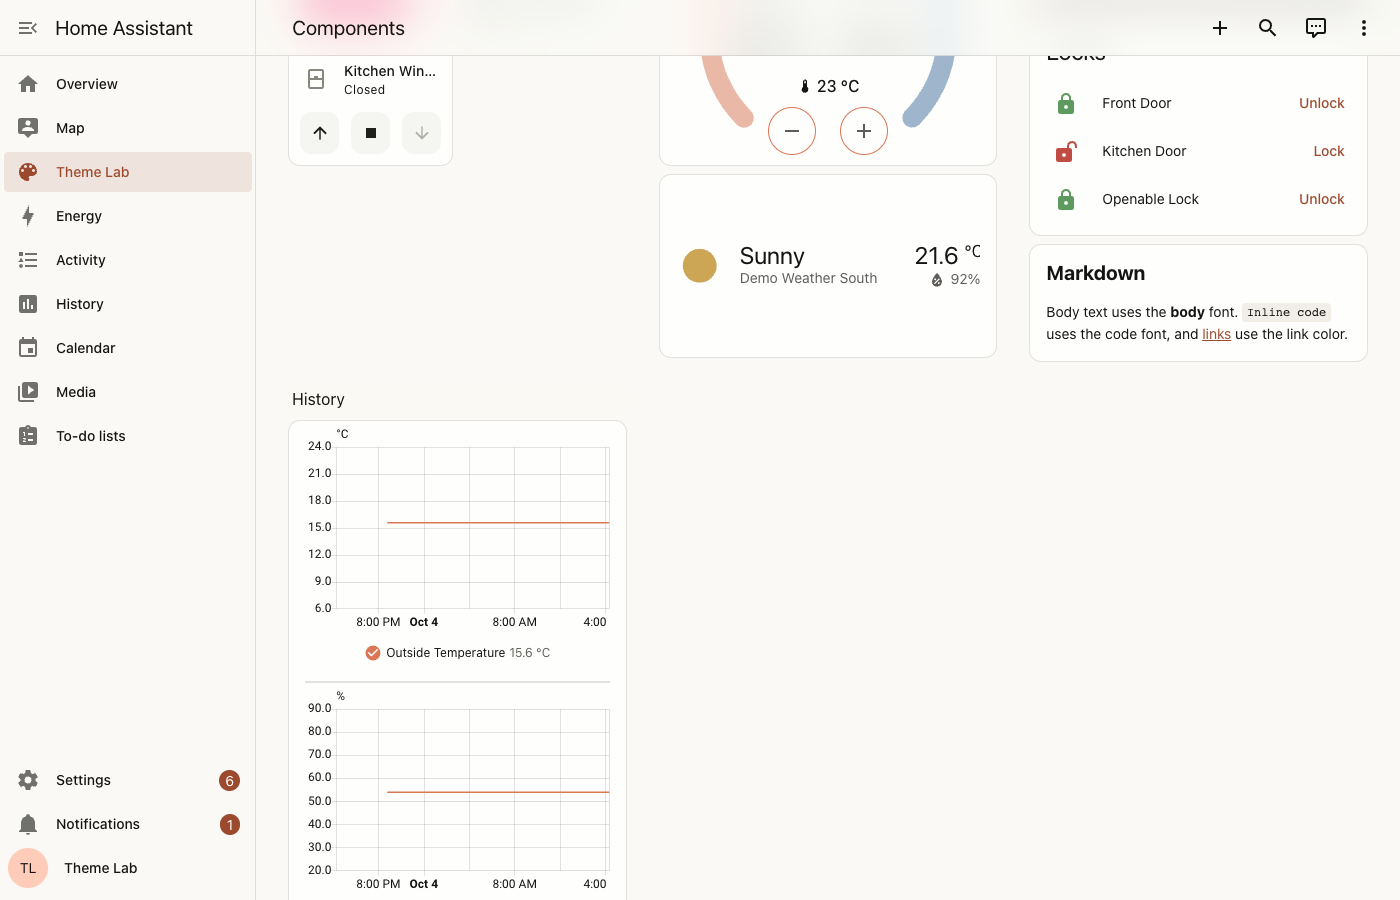
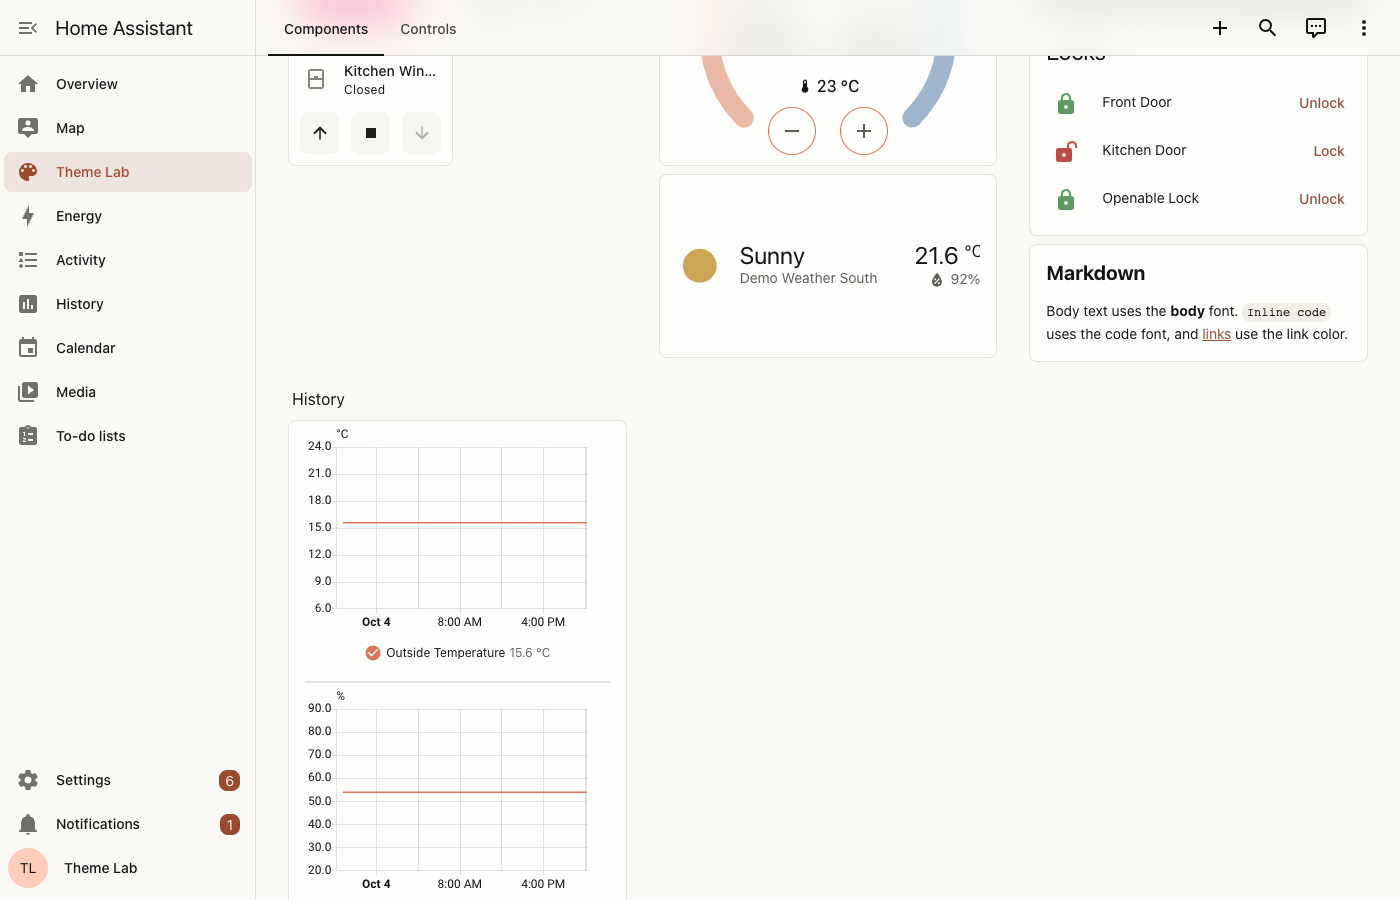
feat(theme): round every element with one small corner radius
Themes now take a corner_radius setting (default 8px) that the builder writes onto every step of the frontend's radius scale, the pill radius and the component and library hooks that bridge it (cards, dialogs, bottom sheets, buttons, badges, chips, tile icons, tooltips, Web Awesome and Material shapes). Corners no longer grow with the size of the element, and form fields share the same value. The support module gives input chips the same radius, since they lock a pill shape on their own host. Circles (ha-border-radius-circle, md-sys-shape-corner-full) keep their shape, and corner_radius: false keeps the frontend's radii. The Theme Lab dashboard gains a Controls view with badges, buttons and tile features.

diff --git a/custom_components/ha_themes/frontend/ha-themes.js b/custom_components/ha_themes/frontend/ha-themes.js
@@ -277,12 +277,19 @@ timeFieldStyles.replaceSync(`
   }
 `);
 
+// The input chip locks its pill shape on its own host, out of reach of the theme's radius.
+const inputChipStyles = new CSSStyleSheet();
+inputChipStyles.replaceSync(`
+  :host { --md-input-chip-container-shape: var(--ha-themes-corner-radius, 16px); }
+`);
+
 const hostStyles = new Map([
   ["ha-input", inputFieldStyles],
   ["ha-textarea", textareaFieldStyles],
   ["ha-picker-field", pickerFieldStyles],
   ["ha-labels-picker", labelsFieldStyles],
   ["ha-base-time-input", timeFieldStyles],
+  ["ha-input-chip", inputChipStyles],
   ["ha-config-navigation-list", iconTileStyles],
   ["ha-config-info", iconTileStyles],
   ["ha-picker-combo-box", iconTileStyles],

diff --git a/toolkit/ha_theme_kit/support/ha-themes.js b/toolkit/ha_theme_kit/support/ha-themes.js
@@ -277,12 +277,19 @@ timeFieldStyles.replaceSync(`
   }
 `);
 
+// The input chip locks its pill shape on its own host, out of reach of the theme's radius.
+const inputChipStyles = new CSSStyleSheet();
+inputChipStyles.replaceSync(`
+  :host { --md-input-chip-container-shape: var(--ha-themes-corner-radius, 16px); }
+`);
+
 const hostStyles = new Map([
   ["ha-input", inputFieldStyles],
   ["ha-textarea", textareaFieldStyles],
   ["ha-picker-field", pickerFieldStyles],
   ["ha-labels-picker", labelsFieldStyles],
   ["ha-base-time-input", timeFieldStyles],
+  ["ha-input-chip", inputChipStyles],
   ["ha-config-navigation-list", iconTileStyles],
   ["ha-config-info", iconTileStyles],
   ["ha-picker-combo-box", iconTileStyles],

diff --git a/toolkit/tests/test_theme.py b/toolkit/tests/test_theme.py
@@ -20,6 +20,9 @@ from ha_theme_kit.theme.definition import ThemeDefinition
 from ha_theme_kit.theme.palette_resolver import PaletteResolver
 from ha_theme_kit.theme.roles import (
     CONTRAST_PAIRS,
+    CORNER_RADIUS_BRIDGES,
+    CORNER_RADIUS_SCALE,
+    CORNER_RADIUS_TOKEN,
     DASHBOARD_HEADER_BACKGROUND_TOKEN,
     FIELD_OUTLINE,
     ICON_TILE_HARMONY,
@@ -295,6 +298,70 @@ def test_field_outline_flag_defaults_to_on_and_loads_from_the_source(tmp_path: P
         yaml.safe_dump({"name": "Flags", "palette": MINIMAL_PALETTE, "field_outline": False})
     )
     assert not ThemeDefinition.load(source).field_outline
+
+
+SHAPE_TOKENS = {"--ha-border-radius-circle", "--ha-border-radius-square"}
+
+
+def test_every_radius_of_the_scale_and_its_bridges_takes_the_corner_radius() -> None:
+    catalog = TokenCatalog.load()
+    scale = {
+        entry.name.removeprefix("--")
+        for entry in catalog.tokens.values()
+        if entry.group == "border-radius" and entry.name not in SHAPE_TOKENS
+    }
+    web_awesome = {
+        entry.name.removeprefix("--")
+        for entry in catalog.tokens.values()
+        if entry.layer == "webawesome" and "radius" in entry.name
+    }
+    base = build_theme(minimal_definition(corner_radius="6px")).base
+    radius_tokens = {*scale, *web_awesome, *CORNER_RADIUS_SCALE, *CORNER_RADIUS_BRIDGES}
+    assert {token: base.get(token) for token in radius_tokens} == dict.fromkeys(
+        radius_tokens, "6px"
+    )
+    assert base[CORNER_RADIUS_TOKEN] == "6px"
+    assert base["ha-themes-field-border-radius"] == "var(--ha-border-radius-md)"
+
+
+def test_circles_and_squares_keep_their_shape() -> None:
+    base = build_theme(minimal_definition()).base
+    assert not {name.removeprefix("--") for name in SHAPE_TOKENS} & set(base)
+    assert "md-sys-shape-corner-full" not in base
+
+
+def test_corner_radius_defaults_to_eight_pixels_and_false_keeps_the_frontend_radii(
+    tmp_path: Path,
+) -> None:
+    source = tmp_path / "radius.yaml"
+    source.write_text(yaml.safe_dump({"name": "Radius", "palette": MINIMAL_PALETTE}))
+    assert ThemeDefinition.load(source).corner_radius == "8px"
+    assert build_theme(minimal_definition()).base["ha-border-radius-pill"] == "8px"
+    source.write_text(
+        yaml.safe_dump({"name": "Radius", "palette": MINIMAL_PALETTE, "corner_radius": False})
+    )
+    assert ThemeDefinition.load(source).corner_radius is None
+    stock = build_theme(minimal_definition(corner_radius=None)).base
+    assert not {*CORNER_RADIUS_SCALE, *CORNER_RADIUS_BRIDGES, CORNER_RADIUS_TOKEN} & set(stock)
+
+
+@pytest.mark.parametrize(("value", "loaded"), [("12px", "12px"), ("0.5rem", "0.5rem"), (0, "0")])
+def test_corner_radius_accepts_lengths(tmp_path: Path, value: object, loaded: str) -> None:
+    source = tmp_path / "radius.yaml"
+    source.write_text(
+        yaml.safe_dump({"name": "Radius", "palette": MINIMAL_PALETTE, "corner_radius": value})
+    )
+    assert ThemeDefinition.load(source).corner_radius == loaded
+
+
+@pytest.mark.parametrize("value", [8, "8", "-4px", "50%", "large", True, "8px 4px"])
+def test_corner_radius_rejects_anything_but_a_length(tmp_path: Path, value: object) -> None:
+    source = tmp_path / "bad.yaml"
+    source.write_text(
+        yaml.safe_dump({"name": "Bad", "palette": MINIMAL_PALETTE, "corner_radius": value})
+    )
+    with pytest.raises(ValueError, match=r"bad.yaml: corner_radius must be a length"):
+        ThemeDefinition.load(source)
 
 
 def test_system_ui_variant_drops_web_fonts() -> None:

diff --git a/toolkit/ha_theme_kit/theme/roles.py b/toolkit/ha_theme_kit/theme/roles.py
@@ -204,6 +204,62 @@ FIELD_OUTLINE: dict[str, str] = {
 module outlines them instead, takes the focus and error colors over to the outline, hides the
 line and clears the fill."""
 
+CORNER_RADIUS_TOKEN = "ha-themes-corner-radius"
+"""Read by the support module where a component locks a literal radius on its own host."""
+
+CORNER_RADIUS_SCALE: tuple[str, ...] = (
+    "ha-border-radius-xs",
+    "ha-border-radius-s",
+    "ha-border-radius-small",
+    "ha-border-radius-sm",
+    "ha-border-radius-md",
+    "ha-border-radius-lg",
+    "ha-border-radius-xl",
+    "ha-border-radius-2xl",
+    "ha-border-radius-3xl",
+    "ha-border-radius-4xl",
+    "ha-border-radius-5xl",
+    "ha-border-radius-6xl",
+    "ha-border-radius-pill",
+)
+"""The frontend's radius scale, plus the three names components read but it never declares.
+`ha-border-radius-square` and `ha-border-radius-circle` are shapes, not sizes, and stay."""
+
+CORNER_RADIUS_BRIDGES: tuple[str, ...] = (
+    "wa-border-radius-s",
+    "wa-border-radius-m",
+    "wa-border-radius-l",
+    "wa-border-radius-pill",
+    "wa-form-control-border-radius",
+    "wa-panel-border-radius",
+    "mdc-shape-small",
+    "mdc-shape-medium",
+    "mdc-shape-large",
+    "md-sys-shape-corner-small",
+    "md-filter-chip-container-shape",
+    "ha-assist-chip-container-shape",
+    "ha-card-border-radius",
+    "ha-card-features-border-radius",
+    "ha-dialog-border-radius",
+    "ha-bottom-sheet-border-radius",
+    "ha-section-border-radius",
+    "ha-button-border-radius",
+    "ha-badge-border-radius",
+    "ha-heading-badge-border-radius",
+    "ha-tile-icon-border-radius",
+    "ha-favorite-color-button-border-radius",
+    "ha-tooltip-border-radius",
+    "ha-input-search-border-radius",
+    "ha-checkbox-border-radius",
+    "ha-bar-border-radius",
+    "ha-progress-bar-border-radius",
+    "calendar-border-radius",
+    "markdown-image-border-radius",
+)
+"""Component and library radii that fall back to a literal or to a fixed step of the scale
+instead of following it, so the scale alone would not reach them. `md-sys-shape-corner-full`
+stays: it rounds focus rings and the circular icon buttons and avatars."""
+
 SCRIM_BRIGHTNESS_PERCENT = 68
 """The frontend's own scrim dimming, kept so modals darken the page as in stock HA."""
 

diff --git a/toolkit/ha_theme_kit/theme/definition.py b/toolkit/ha_theme_kit/theme/definition.py
@@ -1,3 +1,4 @@
+import re
 from dataclasses import dataclass, field
 from pathlib import Path
 
@@ -7,6 +8,9 @@ from ha_theme_kit.theme.chart_palette import ChartSettings
 from ha_theme_kit.theme.entity_palette import EntityColorSettings
 from ha_theme_kit.theme.modes import MODES
 from ha_theme_kit.theme.palette_resolver import PaletteResolver
+
+DEFAULT_CORNER_RADIUS = "8px"
+CORNER_RADIUS_PATTERN = re.compile(r"0|(\d+(\.\d+)?|\.\d+)(px|rem|em)")
 
 
 @dataclass(frozen=True)
@@ -23,6 +27,7 @@ class ThemeDefinition:
     shadows: bool = False
     backdrop_blur: bool = True
     field_outline: bool = True
+    corner_radius: str | None = DEFAULT_CORNER_RADIUS
 
     @classmethod
     def load(cls, path: Path) -> ThemeDefinition:
@@ -39,6 +44,7 @@ class ThemeDefinition:
             "shadows",
             "backdrop_blur",
             "field_outline",
+            "corner_radius",
         }
         if unknown_sections:
             raise ValueError(f"{path.name}: unknown sections {sorted(unknown_sections)}")
@@ -65,6 +71,7 @@ class ThemeDefinition:
             shadows=_require_bool(path, document, "shadows", default=False),
             backdrop_blur=_require_bool(path, document, "backdrop_blur", default=True),
             field_outline=_require_bool(path, document, "field_outline", default=True),
+            corner_radius=_corner_radius(path, document),
         )
 
 
@@ -73,3 +80,17 @@ def _require_bool(path: Path, document: dict, key: str, *, default: bool) -> boo
     if not isinstance(value, bool):
         raise ValueError(f"{path.name}: {key} must be true or false, got {value!r}")
     return value
+
+
+def _corner_radius(path: Path, document: dict) -> str | None:
+    value = document.get("corner_radius", DEFAULT_CORNER_RADIUS)
+    if value is False:
+        return None
+    if value == 0:
+        return "0"
+    if isinstance(value, str) and CORNER_RADIUS_PATTERN.fullmatch(value):
+        return value
+    raise ValueError(
+        f"{path.name}: corner_radius must be a length in px, rem or em (or false to keep the"
+        f" frontend's radii), got {value!r}"
+    )

diff --git a/toolkit/tests/test_support_module.py b/toolkit/tests/test_support_module.py
@@ -436,6 +436,32 @@ def test_toasts_take_the_theme_edge(page: Page, page_errors: list[str]) -> None:
     assert page_errors == []
 
 
+def test_input_chips_take_the_theme_corner_radius(page: Page, page_errors: list[str]) -> None:
+    chip_radius = "() => getComputedStyle(window.findElement('chip')).borderTopLeftRadius"
+    page.evaluate(
+        """() => {
+          document.documentElement.style.setProperty("--ha-themes-corner-radius", "8px");
+          const host = document.createElement("ha-input-chip");
+          const shadow = host.attachShadow({ mode: "open" });
+          const sheet = new CSSStyleSheet();
+          sheet.replaceSync(
+            ":host { --md-input-chip-container-shape: 16px; }"
+            + " #chip { border-radius: var(--md-input-chip-container-shape); }"
+          );
+          shadow.adoptedStyleSheets = [sheet];
+          const chip = document.createElement("div");
+          chip.id = "chip";
+          shadow.append(chip);
+          document.body.append(host);
+        }"""
+    )
+    page.wait_for_function(f"() => ({chip_radius})() === '8px'")
+
+    remove_root_variable(page, "--ha-themes-corner-radius")
+    page.wait_for_function(f"() => ({chip_radius})() === '16px'")
+    assert page_errors == []
+
+
 def test_energy_totals_table_lets_its_card_show_through(page: Page, page_errors: list[str]) -> None:
     table_backgrounds = """() => ['table', 'header'].map(
       (id) => getComputedStyle(window.findElement(id)).backgroundColor

diff --git a/toolkit/ha_theme_kit/theme/builder.py b/toolkit/ha_theme_kit/theme/builder.py
@@ -10,6 +10,9 @@ from ha_theme_kit.theme.neutral_layers import FORM_BACKGROUND, layer_neutral_fil
 from ha_theme_kit.theme.palette_resolver import PaletteResolver
 from ha_theme_kit.theme.roles import (
     BACKDROP_BLUR_FILTERS,
+    CORNER_RADIUS_BRIDGES,
+    CORNER_RADIUS_SCALE,
+    CORNER_RADIUS_TOKEN,
     FIELD_OUTLINE,
     FLAT_ELEVATION,
     ICON_TILE_HARMONY,
@@ -85,6 +88,8 @@ def _build(definition: ThemeDefinition) -> BuiltTheme:
         base.update(BACKDROP_BLUR_FILTERS)
     if definition.field_outline:
         base.update(FIELD_OUTLINE)
+    if definition.corner_radius is not None:
+        base.update(_corner_radii(definition.corner_radius))
     base.update(_resolve_all(resolver, definition.tokens.get("base", {}), "tokens.base"))
 
     entity_settings = EntityColorSettings.from_document(definition.entity_colors)
@@ -138,6 +143,12 @@ def _x_height_ratio(value: str) -> str:
             f"typography size_adjust must be an x-height ratio between 0 and 1, got {value!r}"
         )
     return value
+
+
+def _corner_radii(radius: str) -> dict[str, str]:
+    return dict.fromkeys(
+        (*CORNER_RADIUS_SCALE, *CORNER_RADIUS_BRIDGES, CORNER_RADIUS_TOKEN), radius
+    )
 
 
 def _translucent_surfaces(roles: dict[str, str], mode: str) -> dict[str, str]:

diff --git a/docs/theming-guide.md b/docs/theming-guide.md
@@ -200,7 +200,8 @@ border. No theme variable reaches any of it.
 The support module adopts a stylesheet into those components that outlines the field, hides
 the line and clears the fill while a theme sets the switch `ha-themes-field-outline` to `1`.
 The outline takes `ha-themes-field-border-color` and `ha-themes-field-border-radius` (the
-builder sets `ha-color-border-neutral-quiet` and `ha-border-radius-md`), steps to
+builder sets `ha-color-border-neutral-quiet` and `ha-border-radius-md`, which the
+[corner radius](#corner-radius) sets), steps to
 `ha-color-border-neutral-normal` on hover, turns `primary-color` on focus and
 `ha-color-border-danger-normal` on an invalid value, and fades to half on a disabled input or
 text area; disabled selects already dim as a whole. The time input outlines the whole strip
@@ -215,6 +216,31 @@ then shows the page, card or dialog behind the field, and field text sits on the
 `background` and `surface` the contrast checks measure it against. Fields in the `outlined` appearance (the search fields) keep their own
 outline. Without the switch every rule resolves to the stock look, so other themes are
 unaffected; a theme opts out with `field_outline: false`.
+
+## Corner radius
+
+The frontend rounds by size: `ha-border-radius-sm` (4px) for small controls up to `-6xl`
+(36px) for large ones, and `ha-border-radius-pill` (9999px) for buttons, badges, tile icons and
+progress bars. Many components read a hook or a library variable first (`ha-card-border-radius`,
+`ha-dialog-border-radius`, `ha-button-border-radius`, `wa-panel-border-radius`,
+`mdc-shape-small`, `md-sys-shape-corner-small` …) whose fallback is a literal or a fixed step,
+so the scale alone does not reach them.
+
+A theme's `corner_radius` (default `8px`) replaces every step of the scale, the pill, and each
+of those hooks with one value, so a card, a dialog, a button, a badge and a field share the same
+corner whatever their size. The builder also sets `ha-themes-corner-radius`, which the support
+module gives the input chips (`ha-input-chip`), since they lock a 16px pill on their own host.
+`ha-border-radius-circle` (50%), `ha-border-radius-square` (0) and
+`md-sys-shape-corner-full` are shapes rather than sizes and stay, so avatars, round icon
+buttons, radio buttons and switch thumbs remain circles. The frontend's derived radii stay
+positive: the inner card edges subtract 1–2px, the control switch subtracts its 6px padding
+from `ha-border-radius-6xl`, and the Web Awesome checkbox takes the smaller of 37.5 % of its
+size and `wa-border-radius-s`.
+
+Some radii are literals in component styles that no variable reaches, and keep their stock
+shape: the switch tracks (pill), and a few 10px corners that a parent sets on its children —
+the filter chips and the search field of the data table toolbars, one `ha-control-select`.
+`corner_radius: false` keeps the frontend's radii.
 
 ## Backdrop blur
 

diff --git a/docs/creating-a-theme.md b/docs/creating-a-theme.md
@@ -23,12 +23,19 @@ Every theme built here follows these defaults, so a new theme gets them for free
   `backdrop_blur: false`.
 - **Outlined form fields.** Text inputs, text areas, selects, pickers, the labels field and
   time inputs drop their fill and trade the Material bottom line for a 1px outline in
-  `ha-color-border-neutral-quiet` with `ha-border-radius-md` corners, drawn by the support
+  `ha-color-border-neutral-quiet` with the theme's corner radius, drawn by the support
   module (see [the guide](theming-guide.md#form-fields)), so they show the page, card or
   dialog behind them. The outline steps to `ha-color-border-neutral-normal` on hover instead
   of the darker hover fill, turns the primary color on focus and the danger color on an
   invalid value, as the bottom line did, and fades on a disabled field. Buttons, chips,
   switches and checkboxes are untouched. A theme opts out with `field_outline: false`.
+- **One small corner radius.** Every step of the frontend's radius scale (`sm` through
+  `6xl` and `pill`) and every component hook that bridges it — cards, dialogs and bottom
+  sheets, buttons, badges, chips, tile icons, tooltips, menus, toasts, fields — take the
+  same `corner_radius` (`8px`), so the corner no longer grows with the size of the element.
+  Circles (`ha-border-radius-circle`: avatars, round icon buttons, radio buttons, switch
+  thumbs) stay round (see [the guide](theming-guide.md#corner-radius)). A theme sets another
+  length, or keeps the frontend's radii with `corner_radius: false`.
 - **A harmonized entity palette.** The frontend's named colors — which every entity state
   color references — keep their hue and meaning but are restyled per mode: chroma capped to
   the theme's mood and lightness rescaled into a band that reads on that mode's surfaces.
@@ -70,6 +77,7 @@ description: One paragraph.
 shadows: false                 # optional, default false
 backdrop_blur: true            # optional, default true
 field_outline: true            # optional, default true
+corner_radius: 8px             # optional, default 8px; a px, rem or em length, or false
 
 palette:                       # required: primary, neutral, red, orange, green
   primary: "#d97757"           # a seed: generates steps 05…95 with the frontend's algorithm

diff --git a/README.md b/README.md
@@ -36,7 +36,7 @@ them in full. Anthropic System UI fits exactly what the default theme fits; see
 Every theme has light and dark modes and follows the
 [house conventions](docs/creating-a-theme.md#house-conventions): sidebar and header in the
 page background, no shadows, backdrop blur on the header, cards and dialogs, outlined form
-fields without a fill, a harmonized entity palette, chart series validated for color-vision deficiencies, generic integration
+fields without a fill, one small corner radius for every element, a harmonized entity palette, chart series validated for color-vision deficiencies, generic integration
 icons in the primary color, and a system-ui variant.
 
 | Palette, light | Palette, dark |
@@ -69,7 +69,7 @@ The integration:
 - loads a support module on every page, which applies the theme font to the whole UI
   (Home Assistant hard-codes Roboto on the page body), loads the web fonts of the active
   theme, outlines toasts when shadows are flat and keeps their text readable, outlines the
-  form fields and clears their fill, recolors the generic integration icons and moves the fixed icon tiles of
+  form fields and clears their fill, gives the input chips the theme's corner radius, recolors the generic integration icons and moves the fixed icon tiles of
   Settings, System and About to the theme's entity colors. The themes keep `card-background-color` in the page tone, where
   the frontend mostly paints it; the module lifts the few raised elements that read it
   anyway — dropdown menus to the surface color, the integration entry lists to the card
